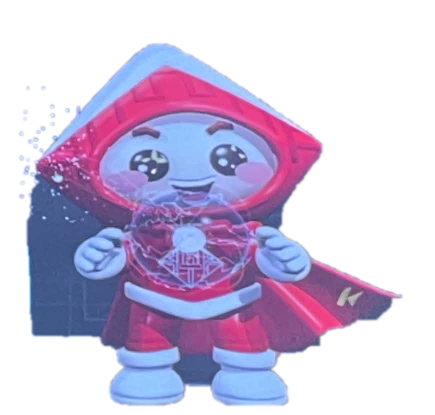
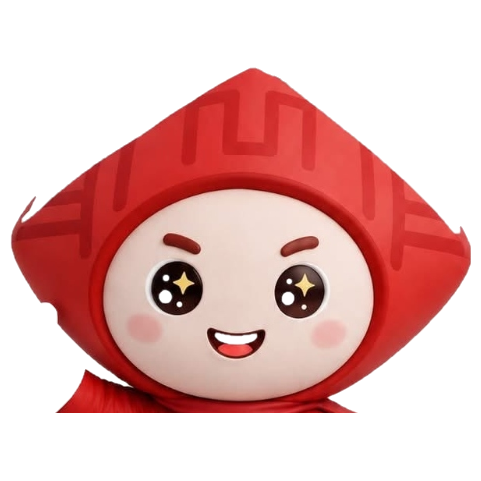
fix(ai-chat): resolve message sending bug, update Katedee mascot design and speech bubble to match Image 3

diff --git a/resources/js/Components/AiChatModal.vue b/resources/js/Components/AiChatModal.vue
@@ -95,62 +95,59 @@
 
             <!-- TAB 1: QUẦY NHÂN VIÊN ẢO (VIRTUAL STAFF KIOSK STANDEE) -->
             <div v-if="sidebarTab === 'kiosk'" class="flex-1 flex flex-col p-3 overflow-y-auto custom-scrollbar justify-between space-y-3">
-              <!-- Khung Sân Khấu Kiosk Standee Bé Kiến Trúc DAU (Hologram Cyber Stage) -->
-              <div class="relative rounded-3xl p-3.5 text-center overflow-hidden bg-gradient-to-b from-black/50 via-red-950/40 to-black/70 border border-rose-500/40 shadow-2xl backdrop-blur-md">
-                <!-- Vòng hào quang không gian -->
-                <div class="absolute -top-10 -left-10 w-28 h-28 rounded-full bg-rose-600/30 blur-2xl"></div>
-                <div class="absolute -bottom-10 -right-10 w-28 h-28 rounded-full bg-amber-500/20 blur-2xl"></div>
-
-                <div class="relative z-10 flex items-center justify-between pb-1.5 border-b border-rose-500/20">
-                  <span class="text-[9px] font-black tracking-widest text-amber-300 uppercase">ĐH KIẾN TRÚC ĐÀ NẴNG</span>
-                  <span class="px-2 py-0.5 rounded-full bg-emerald-500/20 border border-emerald-400/40 text-[9px] font-black text-emerald-300 flex items-center gap-1">
-                    <span class="w-1.5 h-1.5 rounded-full bg-emerald-400 animate-ping"></span>
-                    <span>AI LIVE</span>
+              <!-- Khung Quầy Nhân Viên Ảo Bé Kiến Trúc DAU -->
+              <div class="relative rounded-3xl p-3.5 text-center overflow-hidden bg-white/95 border-2 border-red-300/80 shadow-xl backdrop-blur-md text-slate-800">
+                <div class="relative z-10 flex items-center justify-between pb-2 border-b border-red-100">
+                  <span class="text-[9.5px] font-black tracking-wider text-red-700 uppercase">ĐH KIẾN TRÚC ĐÀ NẴNG</span>
+                  <span class="px-2 py-0.5 rounded-full bg-emerald-50 border border-emerald-300 text-[9px] font-black text-emerald-700 flex items-center gap-1">
+                    <span class="w-1.5 h-1.5 rounded-full bg-emerald-500 animate-ping"></span>
+                    <span>AI LIVE 24/7</span>
                   </span>
                 </div>
 
-                <!-- Linh vật 3D Bé Kiến Trúc Lơ Lửng Trên Bục Năng Lượng Hologram -->
+                <!-- Linh vật Katedee Bé Kiến Trúc DAU -->
                 <div class="relative my-2.5 h-44 sm:h-48 flex flex-col items-center justify-center">
-                  <!-- Đĩa phát sáng Hologram 3D ở chân Bé Kiến Trúc -->
-                  <div class="absolute bottom-1 w-32 h-7 rounded-[100%] bg-gradient-to-r from-red-600 via-rose-500 to-amber-400 blur-[3px] opacity-70 animate-pulse"></div>
-                  <div class="absolute bottom-3 w-20 h-3 rounded-[100%] bg-white/40 blur-xs"></div>
+                  <!-- Đổ bóng tự nhiên dưới chân -->
+                  <div class="absolute bottom-1 w-24 h-4 rounded-full bg-slate-300/40 blur-xs"></div>
 
-                  <!-- Bé Kiến Trúc trong suốt bay lơ lửng -->
                   <img
                     src="/images/mascot-transparent.png"
-                    alt="Bé Kiến Trúc DAU Hologram"
-                    class="h-full w-auto object-contain drop-shadow-[0_15px_25px_rgba(244,63,94,0.45)] transition-transform duration-500"
+                    alt="Bé Kiến Trúc DAU Mascot Katedee"
+                    class="h-full w-auto object-contain drop-shadow-[0_10px_20px_rgba(225,29,72,0.25)] transition-transform duration-300"
                     :class="[
                       isCheckingLedger ? 'animate-ledger-check' : 'animate-mascot-float',
                       isSpeaking ? 'scale-105' : ''
                     ]"
                   />
 
-                  <!-- Huy hiệu Bé Kiến Trúc đang cúi xuống tra sổ sơ đồ -->
+                  <!-- Huy hiệu đang kiểm tra sổ xe -->
                   <div
                     v-if="isCheckingLedger"
-                    class="absolute bottom-2 px-2.5 py-1 rounded-full bg-gradient-to-r from-amber-400 to-amber-500 text-red-950 font-black text-[9.5px] shadow-lg flex items-center gap-1.5 animate-bounce z-20 border border-amber-200"
+                    class="absolute bottom-2 px-2.5 py-1 rounded-full bg-amber-400 text-red-950 font-black text-[9.5px] shadow-lg flex items-center gap-1.5 animate-bounce z-20 border border-amber-200"
                   >
                     <span>📖</span>
-                    <span>Đang cúi xuống xem sổ...</span>
+                    <span>Đang kiểm tra sơ đồ...</span>
                   </div>
                 </div>
 
-                <!-- Cột Sóng Âm Thanh Equalizer Thông Minh -->
-                <div class="flex items-center gap-1.5 justify-center py-1.5 bg-black/40 rounded-xl border border-rose-500/20">
-                  <span class="w-1 bg-rose-400 rounded-full transition-all duration-150" :class="(isSpeaking || isListeningVoice) ? 'h-5 animate-pulse' : 'h-1.5'"></span>
-                  <span class="w-1 bg-amber-400 rounded-full transition-all duration-150" :class="(isSpeaking || isListeningVoice) ? 'h-7 animate-bounce' : 'h-2'"></span>
-                  <span class="w-1 bg-rose-300 rounded-full transition-all duration-150" :class="(isSpeaking || isListeningVoice) ? 'h-9 animate-pulse' : 'h-3'"></span>
-                  <span class="w-1 bg-amber-400 rounded-full transition-all duration-150" :class="(isSpeaking || isListeningVoice) ? 'h-7 animate-bounce' : 'h-2'"></span>
-                  <span class="w-1 bg-rose-400 rounded-full transition-all duration-150" :class="(isSpeaking || isListeningVoice) ? 'h-5 animate-pulse' : 'h-1.5'"></span>
+                <!-- Cột Sóng Âm Thanh Equalizer -->
+                <div class="flex items-center gap-1.5 justify-center py-1.5 bg-red-50/80 rounded-xl border border-red-100">
+                  <span class="w-1 bg-red-500 rounded-full transition-all duration-150" :class="(isSpeaking || isListeningVoice) ? 'h-5 animate-pulse' : 'h-1.5'"></span>
+                  <span class="w-1 bg-amber-500 rounded-full transition-all duration-150" :class="(isSpeaking || isListeningVoice) ? 'h-7 animate-bounce' : 'h-2'"></span>
+                  <span class="w-1 bg-rose-400 rounded-full transition-all duration-150" :class="(isSpeaking || isListeningVoice) ? 'h-9 animate-pulse' : 'h-3'"></span>
+                  <span class="w-1 bg-amber-500 rounded-full transition-all duration-150" :class="(isSpeaking || isListeningVoice) ? 'h-7 animate-bounce' : 'h-2'"></span>
+                  <span class="w-1 bg-red-500 rounded-full transition-all duration-150" :class="(isSpeaking || isListeningVoice) ? 'h-5 animate-pulse' : 'h-1.5'"></span>
                 </div>
 
-                <!-- Trạng thái đàm thoại thông minh -->
-                <div class="mt-1.5 text-[10px] font-black">
-                  <span v-if="isCheckingLedger" class="text-amber-300 animate-pulse">📖 Bé Kiến Trúc đang kiểm tra sổ xe...</span>
-                  <span v-else-if="isSpeaking" class="text-amber-300 animate-pulse">🔊 Bé Kiến Trúc đang nói...</span>
-                  <span v-else-if="isListeningVoice" class="text-emerald-300 animate-pulse">🎙 Đang nghe giọng bạn...</span>
-                  <span v-else class="text-emerald-400">🏛 Trực Phòng Vé Ảo 24/7</span>
+                <!-- Trạng thái đàm thoại -->
+                <div class="mt-2 text-[10.5px] font-black">
+                  <span v-if="isCheckingLedger" class="text-amber-700 animate-pulse">📖 Bé Kiến Trúc đang kiểm tra sổ xe...</span>
+                  <span v-else-if="isSpeaking" class="text-red-600 animate-pulse">🔊 Bé Kiến Trúc đang nói...</span>
+                  <span v-else-if="isListeningVoice" class="text-emerald-600 animate-pulse">🎙 Đang nghe giọng bạn...</span>
+                  <span v-else class="text-slate-700 flex items-center justify-center gap-1">
+                    <span>🏛</span>
+                    <span>Trực Phòng Vé Ảo 24/7</span>
+                  </span>
                 </div>
               </div>
 
@@ -298,25 +295,25 @@
             <!-- HEADER KHUNG CHAT BÉ KIẾN TRÚC DAU (CÓ NÚT GIỌNG NÓI / PHÓNG TO / ĐÓNG) -->
             <div class="p-3 sm:p-3.5 border-b border-slate-100 flex items-center justify-between bg-slate-50/70 select-none">
               <div class="flex items-center gap-2.5 sm:gap-3 min-w-0">
-                <div class="w-9 h-9 sm:w-10 sm:h-10 rounded-2xl overflow-hidden border-2 border-rose-500 bg-gradient-to-tr from-rose-950 via-red-900 to-amber-900 p-0.5 flex items-center justify-center flex-shrink-0 shadow-md">
+                <div class="w-9 h-9 sm:w-10 sm:h-10 rounded-2xl overflow-hidden border-2 border-red-500 bg-white p-0.5 flex items-center justify-center flex-shrink-0 shadow-sm">
                   <img
-                    src="/images/mascot-transparent.png"
+                    src="/images/mascot-avatar.png"
                     alt="Bé Kiến Trúc DAU"
-                    class="w-full h-full object-contain drop-shadow-sm"
+                    class="w-full h-full object-cover"
                   />
                 </div>
                 <div class="min-w-0">
                   <div class="flex items-center gap-1.5 flex-wrap">
                     <h3 class="text-xs sm:text-sm font-black text-slate-900 leading-tight truncate">
-                      {{ activeView === 'admin_email' ? 'Gửi Thông Báo Gmail' : 'Bé Kiến Trúc DAU' }}
+                      {{ activeView === 'admin_email' ? 'Gửi Thông Báo Gmail' : 'Bé Kiến Trúc DAU (Phòng Vé Ảo)' }}
                     </h3>
-                    <span class="text-[9px] px-1.5 py-0.2 rounded bg-red-100 text-red-700 font-bold border border-red-200">
+                    <span class="text-[9px] px-1.5 py-0.5 rounded bg-red-100 text-red-700 font-bold border border-red-200">
                       ĐH Kiến Trúc Đà Nẵng
                     </span>
                   </div>
-                  <p class="text-[10px] sm:text-[11px] text-emerald-600 font-bold flex items-center gap-1 truncate">
+                  <p class="text-[10px] sm:text-[11px] text-emerald-600 font-bold flex items-center gap-1 truncate mt-0.5">
                     <span class="w-1.5 h-1.5 rounded-full bg-emerald-500 animate-pulse flex-shrink-0"></span>
-                    <span class="truncate">AI Đồng Hành Toàn Trình • Tự Động Hóa Từ A-Z</span>
+                    <span class="truncate">Trực Tuyến 24/7</span>
                   </p>
                 </div>
               </div>
@@ -476,25 +473,53 @@
               <!-- Tin nhắn hội thoại -->
               <div ref="chatContainer" class="flex-1 overflow-y-auto p-4 space-y-3.5 custom-scrollbar">
                 
-                <!-- Lời chào & Gợi ý câu hỏi ban đầu Bé Kiến Trúc DAU -->
-                <div v-if="currentMessages.length === 0" class="text-center py-5 space-y-3 max-w-md mx-auto">
-                  <div class="w-16 h-16 rounded-full overflow-hidden border-2 border-red-500 mx-auto shadow-md bg-white p-1">
-                    <img src="/images/mascot-dau.png" alt="Bé Kiến Trúc DAU" class="w-full h-full object-contain" />
-                  </div>
-                  <div>
-                    <h4 class="font-black text-sm text-slate-900">Chào bạn! Em là Bé Kiến Trúc DAU 🏛</h4>
-                    <p class="text-xs text-slate-500 mt-1 leading-relaxed">
-                      Em là AI đồng hành trọn chuyến của bạn. Bạn chỉ cần nói hoặc gõ nhu cầu, em sẽ <strong>tự động tìm tuyến, chọn ghế êm, mở đăng nhập hoặc hỗ trợ hủy đổi vé từ A-Z</strong>, bạn chỉ việc thanh toán thôi nhé!
-                    </p>
+                <!-- Lời chào & Gợi ý câu hỏi ban đầu Bé Kiến Trúc DAU (Khung Bong Bóng Thoại Hình 3) -->
+                <div v-if="currentMessages.length === 0" class="py-4 space-y-4 max-w-lg mx-auto">
+                  <!-- Khung Speech Bubble Bé Kiến Trúc DAU (Phòng Vé Ảo) theo đúng Hình 3 -->
+                  <div class="relative bg-gradient-to-br from-white via-rose-50/30 to-amber-50/30 rounded-3xl p-4 sm:p-5 border-2 border-red-300 shadow-lg flex flex-col sm:flex-row items-center gap-4">
+                    <div class="flex-1 space-y-2.5 text-left">
+                      <!-- Tiêu đề đỏ đậm giống Hình 3 -->
+                      <div class="flex items-center gap-2 font-black text-red-600 text-sm sm:text-base">
+                        <span>🏛</span>
+                        <span>BÉ KIẾN TRÚC DAU (PHÒNG VÉ ẢO)</span>
+                      </div>
+
+                      <!-- Lời chào quote giống hệt Hình 3 -->
+                      <p class="text-xs sm:text-[13px] text-slate-700 leading-relaxed font-semibold">
+                        "Chào anh/chị! Em là nhân viên phòng vé ảo trường ĐH Kiến Trúc. Bấm vào em hoặc nói chuyện để em tự động giữ ghế & hỗ trợ từ A–Z nhé! 🚌 ✨"
+                      </p>
+
+                      <!-- 2 Huy hiệu đặc trưng Hình 3 -->
+                      <div class="flex flex-wrap items-center gap-2 pt-1">
+                        <span class="px-3 py-1 rounded-full bg-rose-100 text-red-700 text-xs font-extrabold flex items-center gap-1 shadow-2xs">
+                          <span>🎙</span>
+                          <span>Đàm thoại 2 chiều</span>
+                        </span>
+                        <span class="px-3 py-1 rounded-full bg-amber-100 text-amber-800 text-xs font-extrabold flex items-center gap-1 shadow-2xs">
+                          <span>⚡</span>
+                          <span>Tự động đặt vé</span>
+                        </span>
+                      </div>
+                    </div>
+
+                    <!-- Linh vật Katedee Bé Kiến Trúc bên cạnh giống Hình 3 -->
+                    <div class="flex-shrink-0 w-24 sm:w-28 h-28 sm:h-32 flex items-center justify-center">
+                      <img
+                        src="/images/mascot-transparent.png"
+                        alt="Bé Kiến Trúc DAU Mascot"
+                        class="w-full h-full object-contain drop-shadow-[0_8px_16px_rgba(225,29,72,0.3)] animate-mascot-float"
+                      />
+                    </div>
                   </div>
 
-                  <div class="grid grid-cols-1 sm:grid-cols-2 gap-2 pt-1 text-left">
+                  <!-- 4 Mẫu câu gợi ý tiện ích cho khách -->
+                  <div class="grid grid-cols-1 sm:grid-cols-2 gap-2 text-left">
                     <button
                       v-for="(sug, idx) in promptSuggestions"
                       :key="idx"
                       type="button"
                       @click="sendPrompt(sug)"
-                      class="p-2.5 rounded-xl border border-slate-200 hover:border-red-400 hover:bg-red-50/50 text-xs font-semibold text-slate-700 hover:text-red-700 transition cursor-pointer text-left flex items-center gap-1.5"
+                      class="p-2.5 rounded-xl border border-slate-200 hover:border-red-400 hover:bg-red-50/50 text-xs font-semibold text-slate-700 hover:text-red-700 transition cursor-pointer text-left flex items-center gap-1.5 shadow-2xs"
                     >
                       <span class="text-base shrink-0">👉</span>
                       <span>{{ sug }}</span>
@@ -1088,7 +1113,8 @@
                   <input
                     type="text"
                     v-model="inputQuery"
-                    :placeholder="interactionMode === 'voice' ? 'Đang bật nói chuyện với AI — Bạn có thể nói trực tiếp qua Micro...' : 'Nhập tin nhắn tư vấn (VD: Tôi bị say xe đi Huế chọn giúp ghế...)'"
+                    @keydown.enter.prevent="sendMessage(false)"
+                    :placeholder="interactionMode === 'voice' ? 'Đang bật nói chuyện với AI — Bạn có thể nói trực tiếp qua Micro...' : 'Nhập câu hỏi hoặc bấm Micro để nói (VD: Có xe đi Quảng Trị lúc mấy giờ?)...'"
                     class="flex-1 bg-slate-50 hover:bg-white focus:bg-white border border-slate-200 focus:border-red-500 rounded-xl px-3.5 py-2.5 text-xs font-medium text-slate-900 outline-none transition"
                   />
                   <!-- Nút Micro Voice AI -->
@@ -1644,20 +1670,15 @@ const isAdminUser = computed(() => {
 });
 
 const resetGuestChat = () => {
+  const newId = Date.now();
   chatSessions.value = [
     {
-      id: Date.now(),
-      title: 'Đoạn chat tạm thời (Khách)',
-      messages: [
-        {
-          role: 'assistant',
-          content: 'Chào bạn! Tôi là Trợ Lý AI Nhà xe Kiến Trúc Đà Nẵng. Tôi có thể hỗ trợ gì cho chuyến đi của bạn hôm nay? (Lưu ý: Đoạn chat của khách chưa đăng nhập sẽ tự động làm mới khi tải lại trang)',
-          time: new Date().toLocaleTimeString('vi-VN', { hour: '2-digit', minute: '2-digit' })
-        }
-      ]
+      id: newId,
+      title: 'Tư vấn chuyến đi',
+      messages: []
     }
   ];
-  currentSessionId.value = chatSessions.value[0].id;
+  currentSessionId.value = newId;
   try {
     sessionStorage.removeItem('nhaxekientruc_guest_chat');
     localStorage.removeItem('nhaxekientruc_chat_sessions_guest');
@@ -1710,14 +1731,8 @@ const getInitialSessions = () => {
   return [
     {
       id: 1,
-      title: 'Đoạn chat tạm thời (Khách)',
-      messages: [
-        {
-          role: 'assistant',
-          content: 'Chào bạn! Tôi là Trợ Lý AI nhaxekientruc. Tôi có thể giúp gì cho bạn hôm nay? (Đăng nhập để tự động lưu lịch sử)',
-          time: new Date().toLocaleTimeString('vi-VN', { hour: '2-digit', minute: '2-digit' })
-        }
-      ]
+      title: 'Tư vấn chuyến đi',
+      messages: []
     }
   ];
 };
@@ -1733,7 +1748,11 @@ const persistSessions = () => {
 };
 
 const currentMessages = computed(() => {
-  const s = chatSessions.value.find(x => x.id === currentSessionId.value);
+  let s = chatSessions.value.find(x => x.id === currentSessionId.value);
+  if (!s && chatSessions.value.length > 0) {
+    s = chatSessions.value[0];
+    currentSessionId.value = s.id;
+  }
   return s ? s.messages : [];
 });
 
@@ -1773,6 +1792,12 @@ const emailLogs = ref([
 
 const openModal = () => {
   isOpen.value = true;
+  isAiTyping.value = false;
+  if (!chatSessions.value || chatSessions.value.length === 0) {
+    resetGuestChat();
+  } else if (!chatSessions.value.find(s => s.id === currentSessionId.value)) {
+    currentSessionId.value = chatSessions.value[0].id;
+  }
 };
 
 const closeModal = () => {
@@ -2215,8 +2240,21 @@ const sendMessage = async (isVoiceTurn = false) => {
   const query = inputQuery.value.trim();
   if (!query) return;
 
-  const currentSession = chatSessions.value.find(x => x.id === currentSessionId.value);
-  if (!currentSession) return;
+  let currentSession = chatSessions.value.find(x => x.id === currentSessionId.value);
+  if (!currentSession) {
+    if (chatSessions.value.length > 0) {
+      currentSession = chatSessions.value[0];
+      currentSessionId.value = currentSession.id;
+    } else {
+      currentSession = {
+        id: Date.now(),
+        title: 'Tư vấn chuyến đi',
+        messages: []
+      };
+      chatSessions.value.push(currentSession);
+      currentSessionId.value = currentSession.id;
+    }
+  }
 
   // Khách hàng dùng voice thì AI mới nói lại; còn nhắn tin thì AI chỉ nhắn tin hỗ trợ bình thường
   const shouldSpeakResponse = Boolean(isVoiceTurn || interactionMode.value === 'voice');
